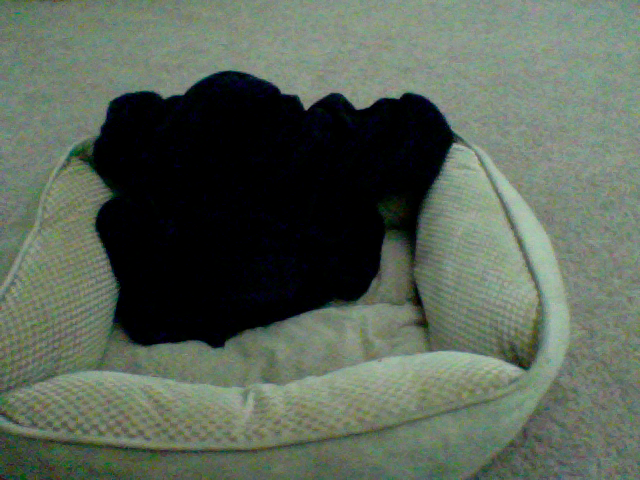
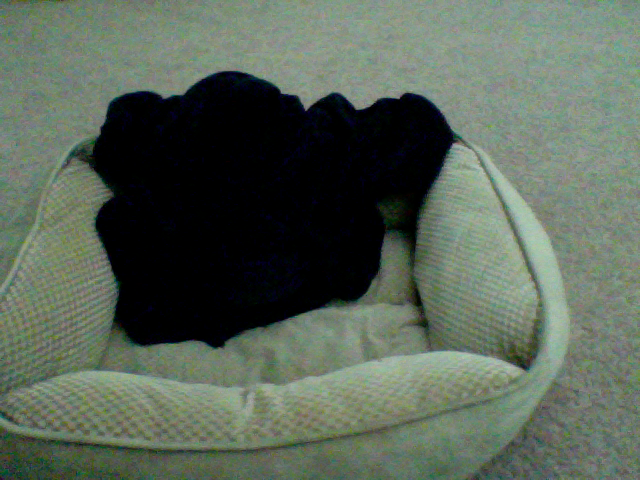
update at Month05Day08Time13:27

diff --git a/index.html b/index.html
@@ -39,8 +39,8 @@
       <!-- Example row of columns -->
       <div class="row">
         <div class="col-md-4">
-	<p>This picture was updated at Month05Day08Time13:26</p>
-		<img src="9_pic.png" />
+	<p>This picture was updated at Month05Day08Time13:27</p>
+		<img src="1_pic.png" />
         </div>
       </div>
 
